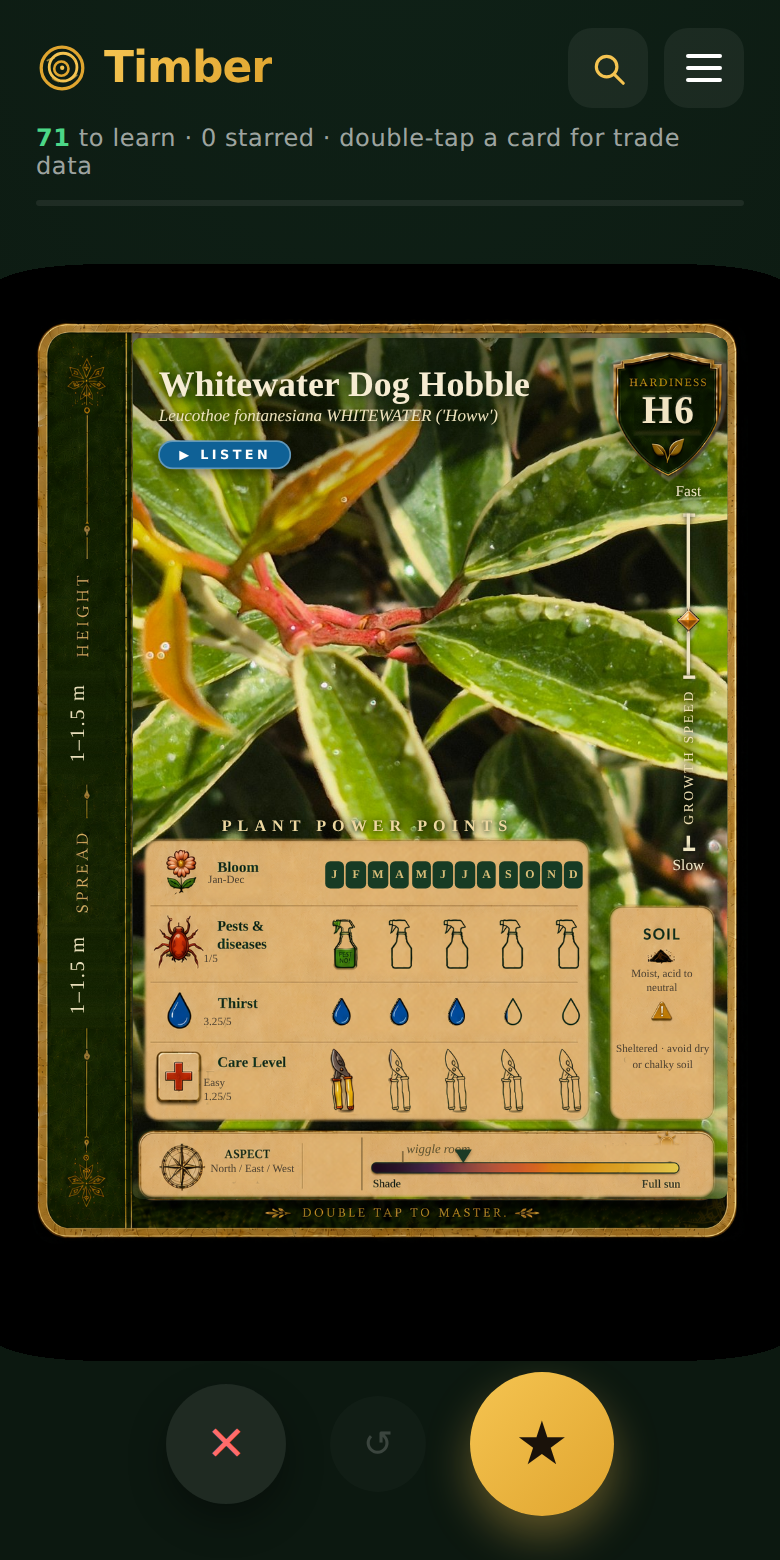
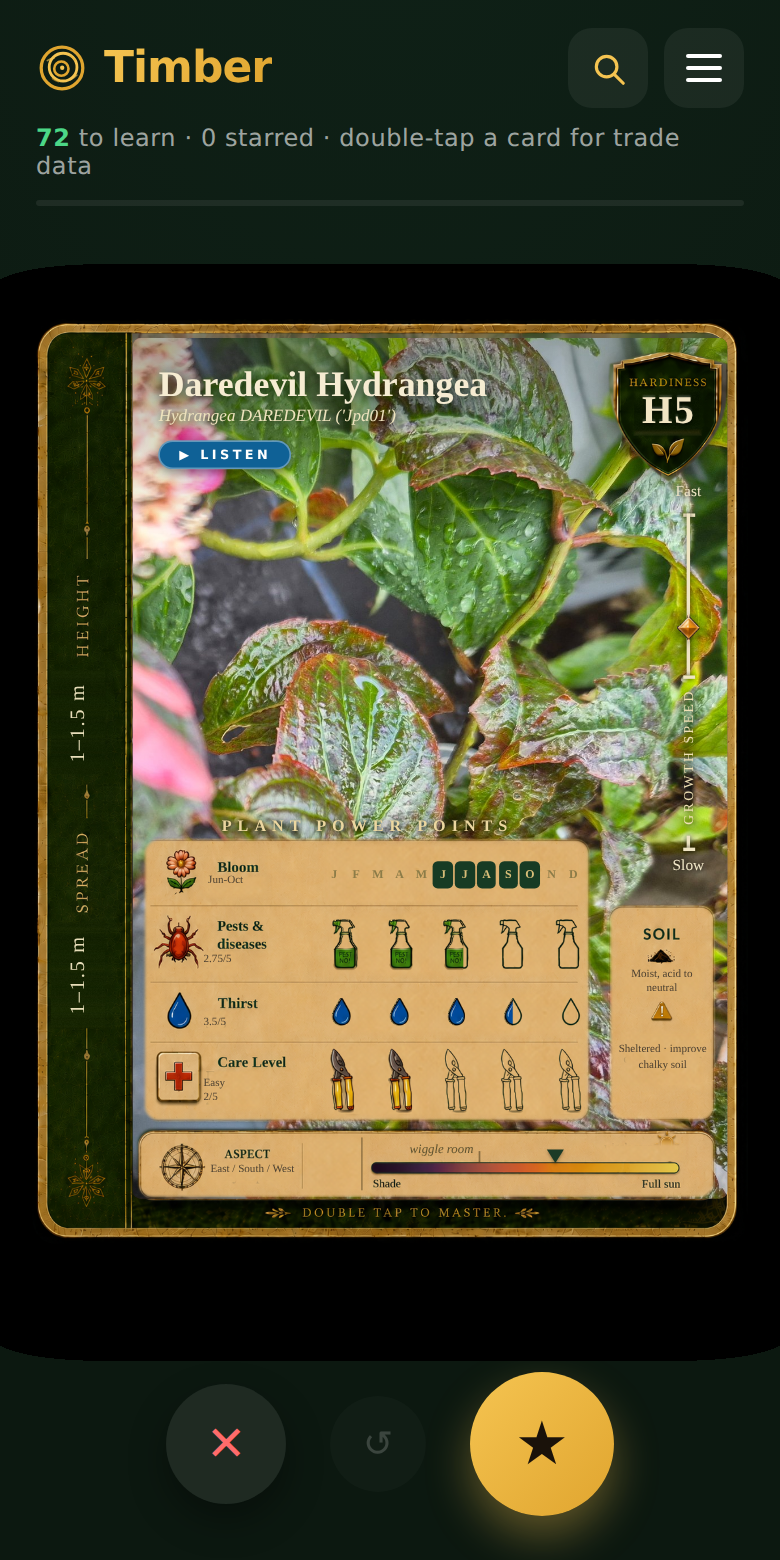
Add Daredevil Hydrangea to deck: 71 -> 72

Changed region(s): [[0.1538, 0.2154, 0.9538, 0.7692], [0.5538, 0.5846, 0.6154, 0.6154]]

diff --git a/timber.html b/timber.html
@@ -1452,6 +1452,18 @@ const PLANTS = [
    hardiness:"H6", resilience:"shade tolerant · generally pest free",
    uses:"woodland borders · containers · groundcover", size:"1–1.5 m H × 1–1.5 m W",
    seasonalImpact:"", growthSpeed:7, pestRisk:4, thirst:13, careLevel:5, sunNeed:30, sunMin:10},
+  {common:"Daredevil Hydrangea", latin:"Hydrangea DAREDEVIL ('Jpd01')", hue:350,
+   visual:"Near-black red foliage · pink-purple lacecaps · fiery red autumn colour",
+   water:"Keep evenly moist; water more in sun",
+   aspect:"East / South / West",
+   soil:"Moist, acid to neutral; Sheltered · improve chalky soil",
+   prune:"Deadhead and remove weak stems in spring",
+   source:"", peak:"Jun-Oct", order:"", bench:"", root:"",
+   trade:"", retail:"", margin:"", type:"", shrink:"", returnRisk:"", pots:"",
+   cvs:"cultivar code 'Jpd01'; syn. Hydrangea serrata DAREDEVIL",
+   hardiness:"H5", resilience:"compact · repeat flowering · cold hardy",
+   uses:"containers · small gardens · shrub borders", size:"1–1.5 m H × 1–1.5 m W",
+   seasonalImpact:"", growthSpeed:6, pestRisk:11, thirst:14, careLevel:8, sunNeed:60, sunMin:35},
 ];
 /* PLANTS:END */
 

diff --git a/tests/edge-test.js b/tests/edge-test.js
@@ -1,5 +1,5 @@
 const { chromium } = require('playwright');
-const NPLANTS = 71;  // plants in the demo deck
+const NPLANTS = 72;  // plants in the demo deck
 const URL = 'http://localhost:8477/timber.html';
 let passed = 0, failed = 0;
 const fails = [];

diff --git a/tests/app-test.js b/tests/app-test.js
@@ -1,5 +1,5 @@
 const { chromium } = require('playwright');
-const NPLANTS = 71;  // plants in the demo deck
+const NPLANTS = 72;  // plants in the demo deck
 
 const URL = 'http://localhost:8477/timber.html';
 let passed = 0, failed = 0;
